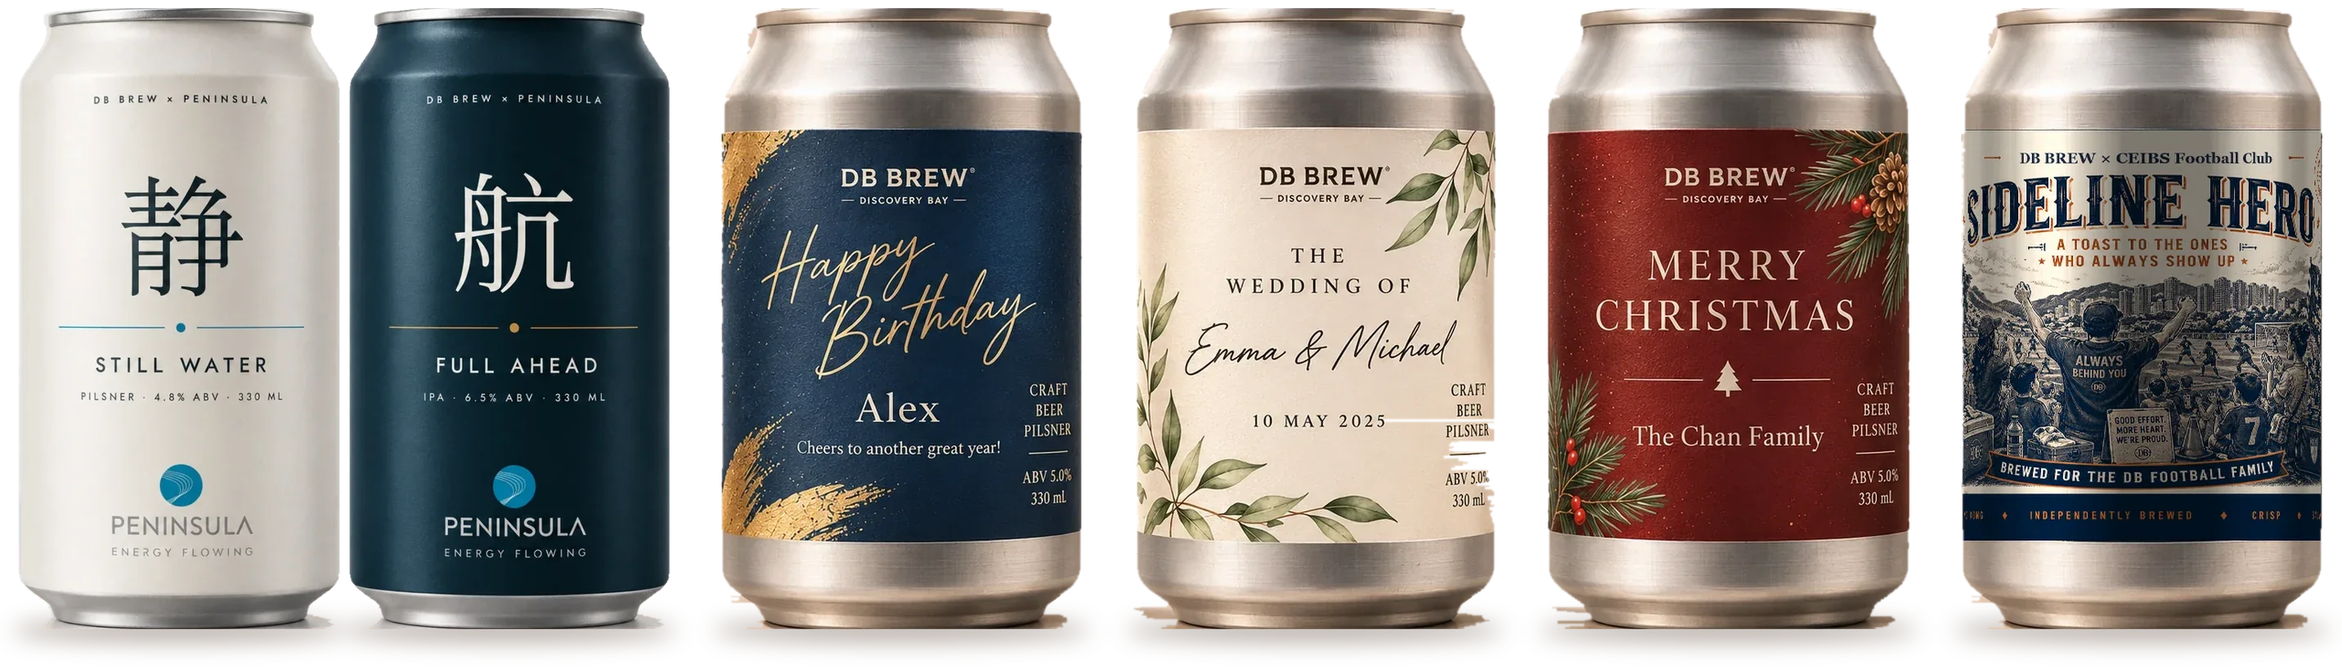
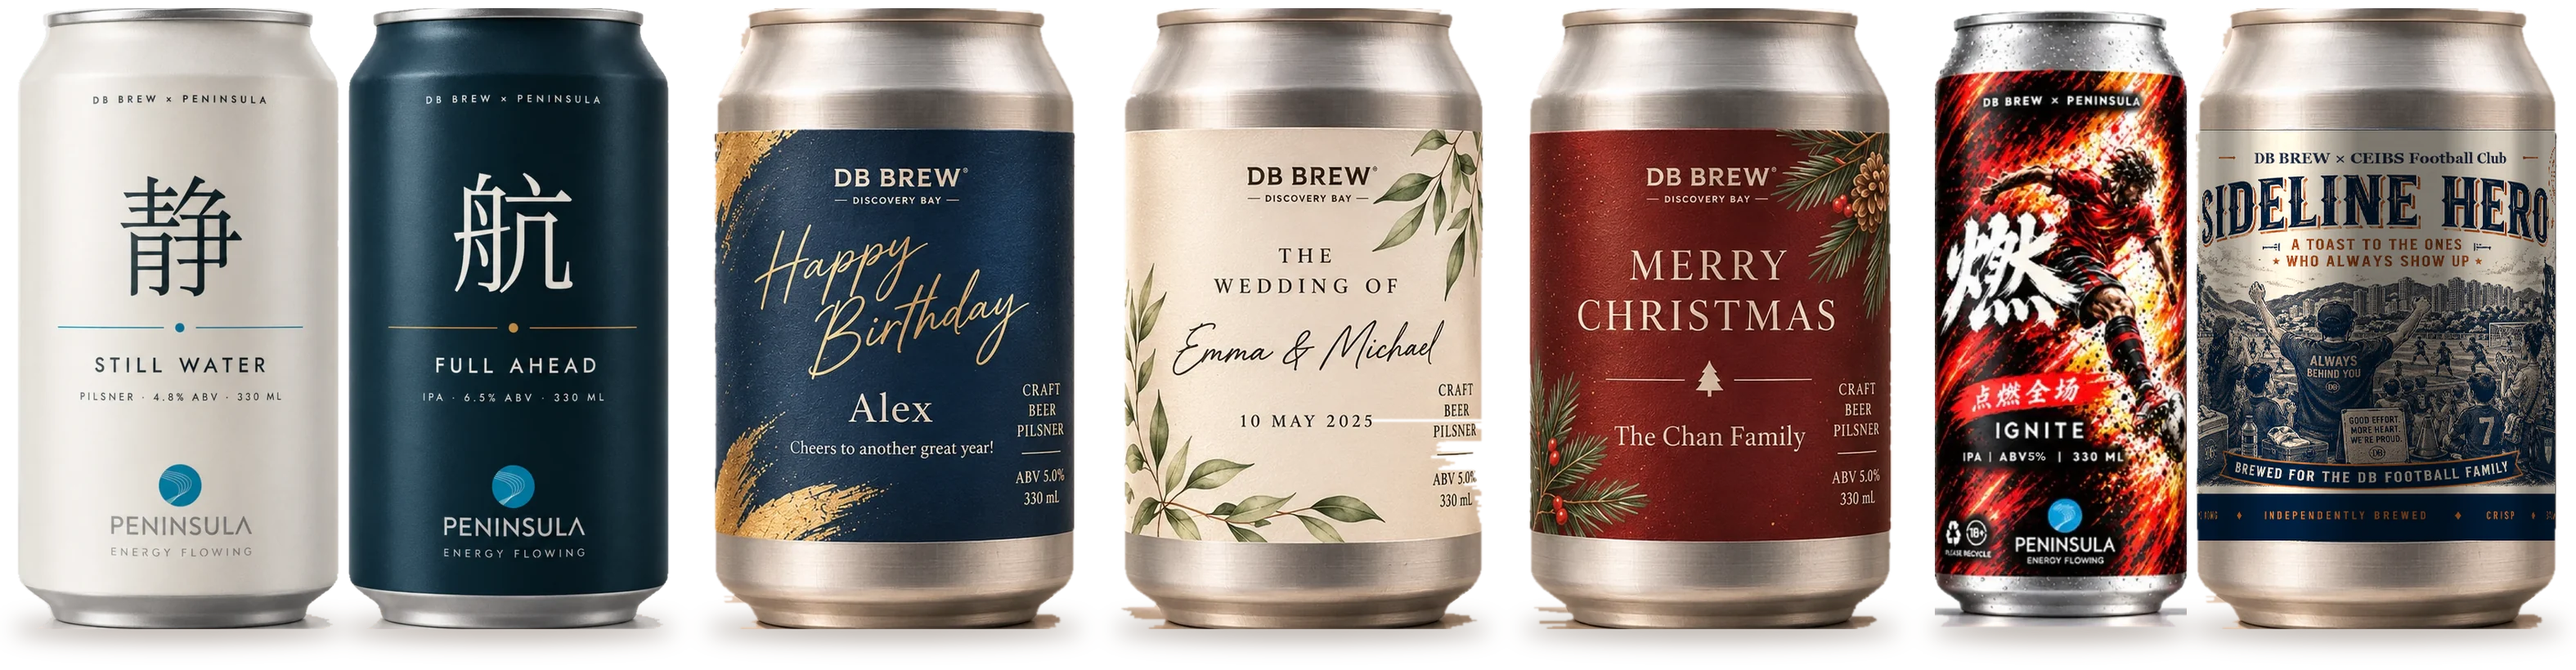
feat(mybeer): add Peninsula football can to the sports-team group on the homepage

diff --git a/mybeer.html b/mybeer.html
@@ -74,7 +74,7 @@ body::before{content:"";position:fixed;inset:0 0 auto;height:env(safe-area-inset
 .lineup-wrap{margin-top:30px}
 .lineup-inner{position:relative}
 .lineup-inner img{width:100%}
-.chips{display:grid;grid-template-columns:28% repeat(4,15.67%);column-gap:1.96%;margin-left:.7%;margin-top:6px}
+.chips{display:grid;grid-template-columns:25.4% 14.22% 14.25% 14.25% 24.26%;column-gap:1.59%;margin-left:.63%;margin-top:6px}
 .chip{display:flex;align-items:center;justify-content:center;gap:12px;background:var(--card);border:1px solid var(--line);border-radius:6px;padding:10px 8px;text-decoration:none;color:var(--ink);box-shadow:0 6px 16px -12px #5b3a2266;min-width:0}
 .chip:hover{border-color:var(--gold)}
 .chip .ct{display:grid;line-height:1.25;text-align:left}
@@ -318,7 +318,7 @@ html.custom-lineup .chips{grid-template-columns:repeat(5,minmax(0,1fr));column-g
   </div>
 
   <div class="lineup-wrap" id="types"><div class="lineup-inner">
-    <img id="lineup-img" src="/mybeer-lineup.webp" width="2864" height="820" alt="DB BREW custom cans: Peninsula Still Water and Full Ahead, birthday, wedding, Christmas, and Sideline Hero for CEIBS Football Club">
+    <img id="lineup-img" src="/mybeer-lineup.webp" width="3150" height="820" alt="DB BREW custom cans: Peninsula Still Water and Full Ahead, birthday, wedding, Christmas, Peninsula football Ignite, and Sideline Hero for CEIBS Football Club">
     <div class="chips">
       <a class="chip" href="#contact"><svg class="i"><use href="#i-corp"/></svg><span class="ct"><b lang="zh-Hant">企業定制</b><b lang="en">Corporate</b><span lang="zh-Hant">Corporate</span><span lang="en">Company events &amp; gifts</span></span></a>
       <a class="chip" href="#make" data-pick="bday"><svg class="i"><use href="#i-cake"/></svg><span class="ct"><b lang="zh-Hant">生日定制</b><b lang="en">Birthday</b><span lang="zh-Hant">Birthday</span><span lang="en">Name &amp; message</span></span></a>
@@ -332,7 +332,7 @@ html.custom-lineup .chips{grid-template-columns:repeat(5,minmax(0,1fr));column-g
     <a class="mcell" href="#make" data-pick="bday"><img src="/mybeer-m-bday.webp" width="245" height="420" alt="Birthday can"><b><span lang="zh-Hant">生日定制</span><span lang="en">Birthday</span></b><span><span lang="zh-Hant">Birthday</span><span lang="en">生日</span></span></a>
     <a class="mcell" href="#make" data-pick="wed"><img src="/mybeer-m-wed.webp" width="245" height="420" alt="Wedding can"><b><span lang="zh-Hant">婚慶定制</span><span lang="en">Wedding</span></b><span><span lang="zh-Hant">Wedding</span><span lang="en">婚慶</span></span></a>
     <a class="mcell" href="#make" data-pick="xmas"><img src="/mybeer-m-party.webp" width="245" height="420" alt="Christmas party can"><b><span lang="zh-Hant">Party 定制</span><span lang="en">Party</span></b><span><span lang="zh-Hant">Party</span><span lang="en">派對</span></span></a>
-    <a class="mcell" href="#contact"><img src="/mybeer-m-team.webp" width="245" height="420" alt="Sideline Hero can for CEIBS Football Club"><b><span lang="zh-Hant">球隊定制</span><span lang="en">Sports teams</span></b><span><span lang="zh-Hant">Sports Teams</span><span lang="en">球隊</span></span></a>
+    <a class="mcell" href="#contact"><img src="/mybeer-m-team.webp" width="422" height="420" alt="Peninsula football Ignite can and Sideline Hero can for CEIBS Football Club"><b><span lang="zh-Hant">球隊定制</span><span lang="en">Sports teams</span></b><span><span lang="zh-Hant">Sports Teams</span><span lang="en">球隊</span></span></a>
   </div>
   <p class="swipe"><span lang="zh-Hant">← 左右滑動查看全部 →</span><span lang="en">← Swipe to see all →</span></p>
   <p class="claim"><span lang="zh-Hant">從企業週年、生日慶祝、婚禮喜宴、派對聚會到運動球隊，<br>DB BREW 提供專屬的客製啤酒包裝服務。</span><span lang="en">From company anniversaries, birthdays and weddings to parties and sports teams,<br>DB BREW makes beer that carries your name.</span></p>
